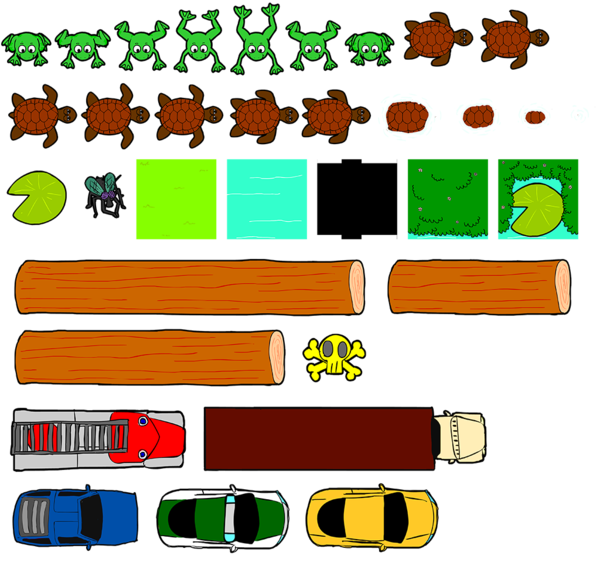
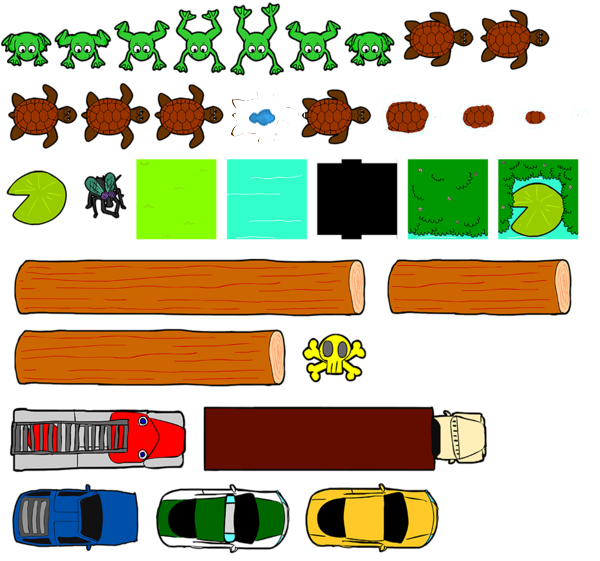
fix: gamboard compleated

Changed region(s): [[0.36, 0.1515, 0.51, 0.2727]]

diff --git a/sketch.js b/sketch.js
@@ -23,7 +23,7 @@ let bubble3;
 let bubble4;
 let bubble5;
 let ciel;
-let con
+let sub;
 let desks;
 let playerStatus;
 let oceanScape;
@@ -60,12 +60,12 @@ function setup() {
   chair.addAnimation("normal", "assets/turtle.png");
 
   desks = createSprite(550, 340, 468, 127)
-  desks.addAnimation("normal", "assets/desks.png");
+  desks.addAnimation("normal", "assets/sub.png");
 
-  con = createSprite(40, 400, 77, 112);
-  con.addAnimation("normal", "assets/console.png");
+  fish = createSprite(890, 350, 26, 18);
+  fish.addAnimation("normal", "assets/fish.png");
 
-  oceanScape = [base, chair, desks, con];
+  oceanScape = [base, chair, desks, sub];
   ciel = createSprite(500, -5, 1000, 5);
 
 }
